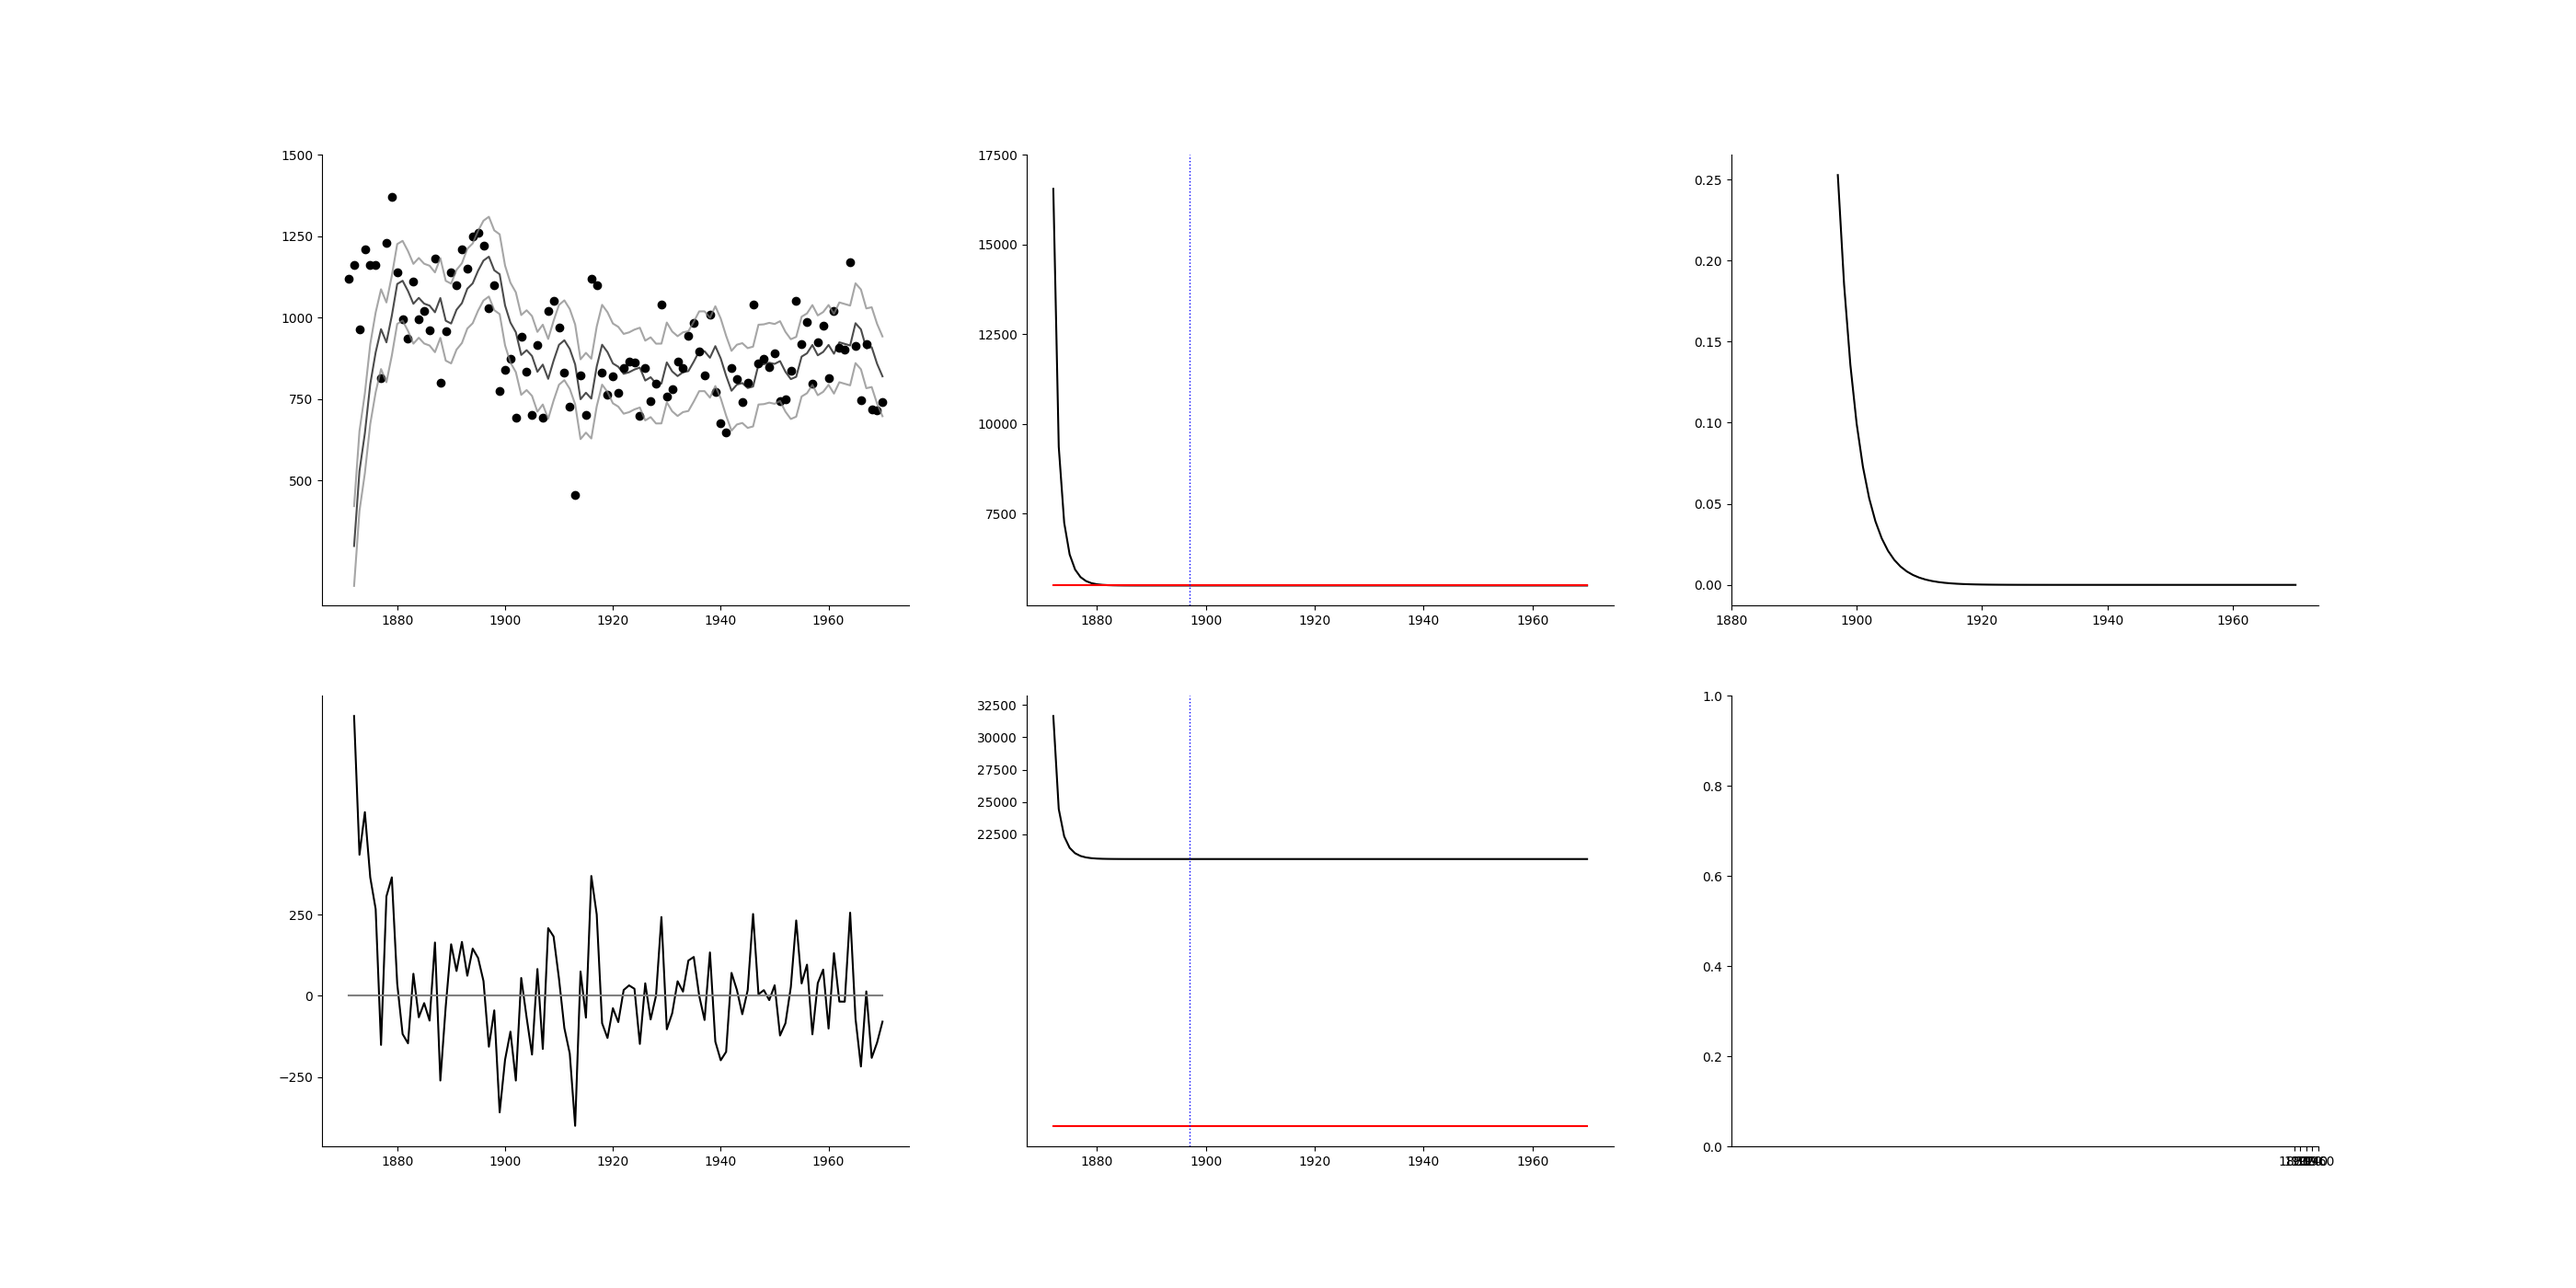
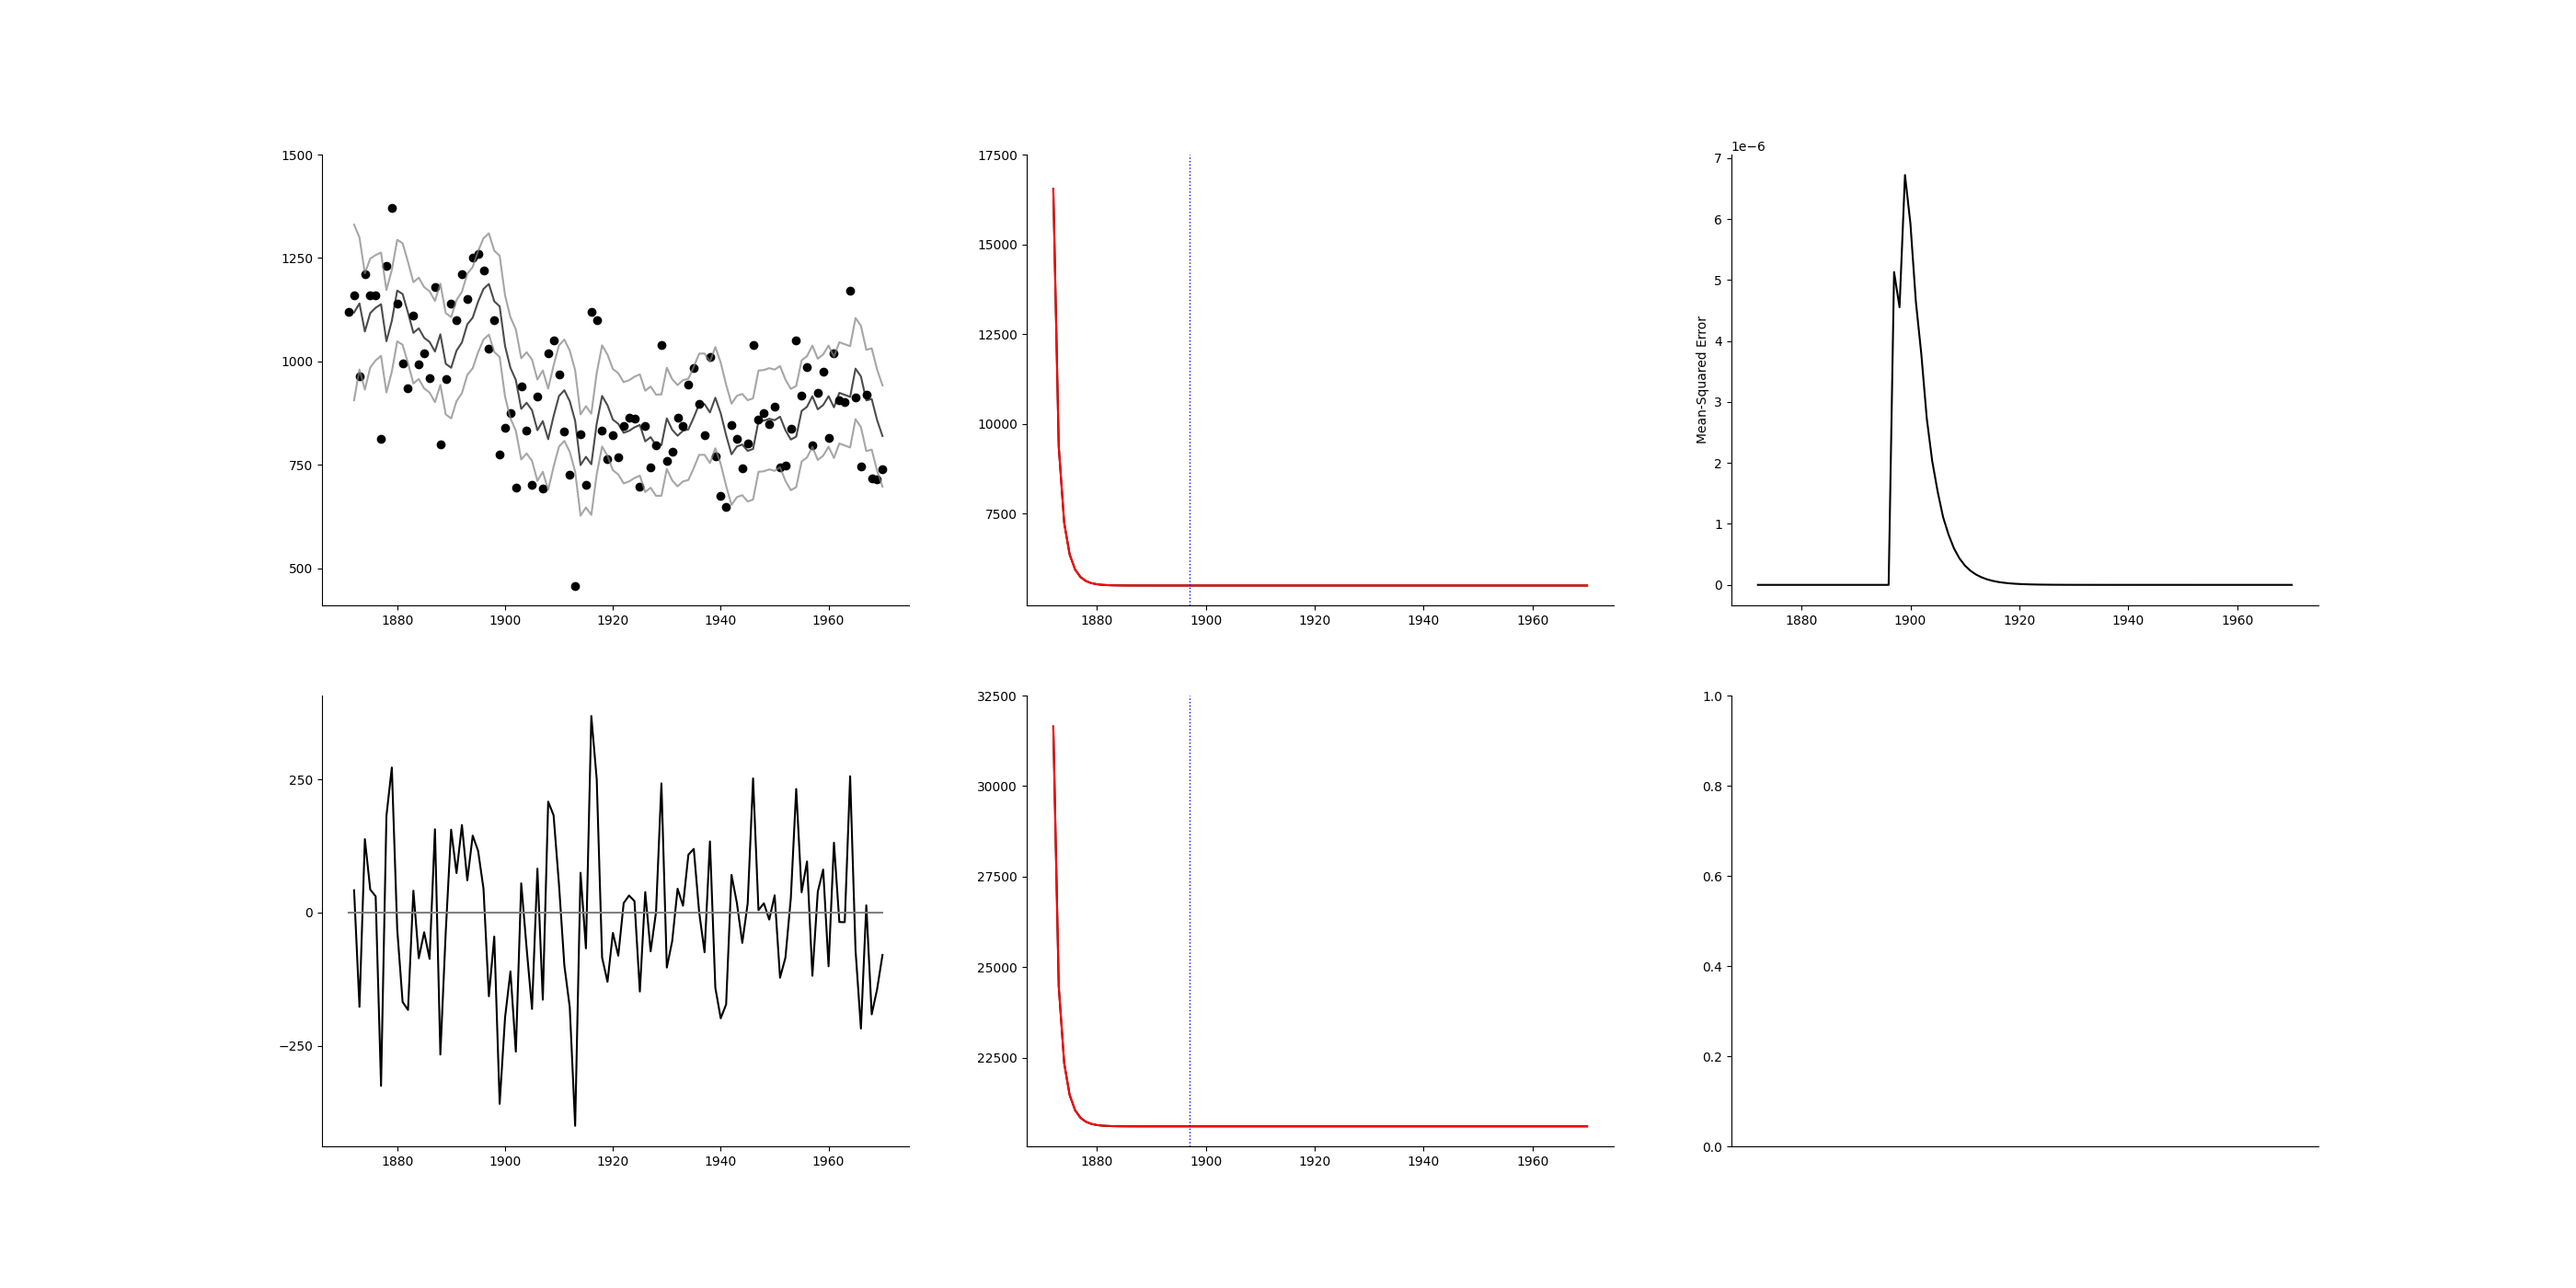
Update

diff --git a/BishopBooks/EM_Notes/EM.tex b/BishopBooks/EM_Notes/EM.tex
@@ -1,0 +1,131 @@
+\documentclass{article}
+\usepackage{graphicx} 
+\usepackage{amsmath}
+\usepackage{accents}
+
+\title{Bishop Book: Expectation Maximization}
+\author{Zimo Li}
+\date{15 November 2023}
+
+\begin{document}
+\maketitle
+
+\section{Background}
+\subsection{Gaussian Mixture Model}
+\par\noindent
+The Gaussian mixture distribution can be written as a linear superposition
+of Gaussians in the form
+\[
+p(\mathbf{x}) = \sum_{k=1}^{K}\pi_k\mathcal{N}(\mathbf{x}|\mu_k,\Sigma_k)
+\]
+
+\par\noindent
+We introduce a binary random variable \(\mathbf{z}\) to attribute 
+each observation into a Gaussian model \(\mathcal{N}(\mu_k,\Sigma_k)\).
+\bigskip
+
+\par\noindent
+Hence, the values of \(\mathbf{z}\) should be 0s and a \(z_k=1\). 
+The index of \(k\) depends on values of \(\pi_k\):
+\[p(z_k=1)=\pi_k\]
+where
+\[0 \leq \pi_k \leq 1 \]
+\[\sum_{k=1}^{K}\pi_k=1 \]
+\bigskip
+
+\par\noindent
+The conditional distribution of x given a particular value for \(\mathbf{z}\)
+can be written in the form
+\[
+    p(\mathbf{x}|\mathbf{z})
+    =\prod_{k=1}^{K}
+    \mathcal{N}(\mathbf{x}|\mu_k, \Sigma_k)^{z_k}
+\]
+Therefore, the observation \(\mathbf{x}\) is linked
+to its latent state.
+\bigskip
+
+\par\noindent
+The marginal distirbution of \(\mathbf{x}\) is
+\begin{align*}
+    p(\mathbf{x}) &=
+    \sum_{\mathbf{z}}^{}p(\mathbf{z})p(\mathbf{x}|\mathbf{z})\\
+    &= \sum_{\mathbf{z}}^{}\prod_{k=1}^{K}(\pi_k\mathcal{N}(\mathbf{x}|\mu_k, \Sigma_k))^{z_k}\\
+    &=\sum_{k=1}^{K}\pi_k\mathcal{N}(\mathbf{x}|\mu_k, \Sigma_k)\\
+\end{align*}
+which applies for every observed data point \(\mathbf{x}_1, \mathbf{x}_2, \cdots, \mathbf{x}_n\).
+\bigskip
+
+\par\noindent
+For each \(\mathbf{z}_k\), we can use a function \(\gamma(z_k)\) to 
+denote whether \(z_k=1\) under the observation of \(\mathbf{x}\)
+\begin{align*}
+    \gamma(z_k) = p(z_k=1|\mathbf{x})
+    &= \frac{p(z_k=1)p(\mathbf{x}|z_k=1)}{p(\mathbf{x})}\\
+    &= \frac{p(z_k=1)p(\mathbf{x}|z_k=1)}{\sum_{\mathbf{z}}^{}p(\mathbf{z})p(\mathbf{x}|\mathbf{z})}\\
+    &= \frac{p(z_k=1)p(\mathbf{x}|z_k=1)}{\sum_{j=1}^{K}p(z_j=1)p(\mathbf{x}|z_j=1)}\\
+    &= \frac{\pi_k\mathcal{N}(\mathbf{x}|\mu_k, \Sigma_k)}{\sum_{j=1}^{K}\pi_j\mathcal{N}(\mathbf{x}|\mu_j, \Sigma_j)}\\
+\end{align*}
+so that \(\pi_k\) is the prior probability of \(z_k=1\) and \(\gamma(z_k)\)
+is the posterior probability once the \(\mathbf{x}\) is observed.
+\bigskip
+
+\par\noindent
+For a set of observations \(\mathbf{X}\) where \(\mathbf{x}_1, \mathbf{x}_2, \cdots, \mathbf{x}_n\)
+are all independent from each other, the log likelihood of observing
+\(\mathbf{X}\) is
+\[
+\ln{p(\mathbf{X}|\mathbf{\pi},\mathbf{\mu},\mathbf{\Sigma})}
+=\sum_{n=1}^{N}\ln{\{\sum_{k=1}^{K}\pi_k\mathcal{N}(\mathbf{x_n}|\mu_k, \Sigma_k)\}}
+\]
+
+\subsection{Likelihood}
+\subsubsection{\(\mu_k\)}
+\par\noindent
+First, calculate the derivative of the log likelihood with respect to one of the means \(\mu_k\)
+\begin{align*}
+    \frac{d\ln{p(\mathbf{X}|\mathbf{\pi},\mathbf{\mu},\mathbf{\Sigma})}}{d\mu_k}
+    &= \sum_{n=1}^{N} \frac{d\ln{\{\sum_{k=1}^{K}\pi_k\mathcal{N}(\mathbf{x_n}|\mu_k, \Sigma_k)\}}}{d\mu_k}\\
+    &= \sum_{n=1}^{N} \frac{1}{\ln{\{\sum_{k=1}^{K}\pi_k\mathcal{N}(\mathbf{x_n}|\mu_k, \Sigma_k)\}}}\pi_k\frac{d\mathcal{N}(\mathbf{x}|\mu_k, \Sigma_k)}{d\mu_k}\\
+    &= \sum_{n=1}^{N} \frac{1}{\ln{\{\sum_{k=1}^{K}\pi_k\mathcal{N}(\mathbf{x_n}|\mu_k, \Sigma_k)\}}}\pi_k\{\mathcal{N}(\mathbf{x}|\mu_k, \Sigma_k)\Sigma_k^{-1}(\mathbf{x}_n-\mu_k)\}\\
+    &= \sum_{n=1}^{N} \frac{\pi_k\mathcal{N}(\mathbf{x}|\mu_k, \Sigma_k)}{\sum_{j=1}^{K}\pi_j\mathcal{N}(\mathbf{x}|\mu_j, \Sigma_j)}\Sigma_k^{-1}(\mathbf{x}_n-\mu_k)\\
+    &= \sum_{n=1}^{N} \gamma(z_{nk})\Sigma_k^{-1}(\mathbf{x}_n-\mu_k)
+\end{align*}
+\bigskip
+
+\par\noindent
+To maximize the log likelihood with respect to \(\mu_k\), we shall set this derivative to 0:
+\begin{align*}
+    \sum_{n=1}^{N} \gamma(z_{nk})\Sigma_k^{-1}(\mathbf{x}_n-\mu_k) &= 0
+\end{align*}
+Multiplying by \(\mathbf{\Sigma_k}^{-1}\) which is assumed to be nonsingular:
+\begin{align*}
+    \sum_{n=1}^{N} \gamma(z_{nk})\mathbf{x}_n &= \sum_{n=1}^{N} \gamma(z_{nk})\mu_k\\
+    \mu_k &= \frac{1}{\sum_{n=1}^{N} \gamma(z_{nk})}\sum_{n=1}^{N} \gamma(z_{nk})\mathbf{x}_n\\
+    &= \frac{1}{N_k}\sum_{n=1}^{N} \gamma(z_{nk})\mathbf{x}_n
+\end{align*}
+\bigskip
+
+\subsubsection{\(\Sigma_k\)}
+\par\noindent
+Calculate the derivative of the log likelihood with respect to one of the means \(\Sigma_k\)
+\begin{align*}
+    \frac{d\ln{p(\mathbf{X}|\mathbf{\pi},\mathbf{\mu},\mathbf{\Sigma})}}{d\Sigma_k}
+    &= \sum_{n=1}^{N} \frac{d\ln{\{\sum_{k=1}^{K}\pi_k\mathcal{N}(\mathbf{x_n}|\mu_k, \Sigma_k)\}}}{d\Sigma_k}\\
+    &= \sum_{n=1}^{N} \frac{1}{\ln{\{\sum_{k=1}^{K}\pi_k\mathcal{N}(\mathbf{x_n}|\mu_k, \Sigma_k)\}}}\pi_k\frac{d\mathcal{N}(\mathbf{x}|\mu_k, \Sigma_k)}{d\Sigma_k}
+\end{align*}
+\bigskip
+
+
+\subsubsection{\(\pi_k\)}
+
+
+\section{EM Process}
+\subsection{E}
+
+
+
+\subsection{M}
+
+
+\end{document}

diff --git a/D&K Books/lds.py b/D&K Books/lds.py
@@ -22,16 +22,15 @@ def ApplyFilter(a1, p1, e, n, y, steady_state = False):
     timepoints = len(y)
     a, p, F = np.zeros(timepoints+1, dtype = np.double), np.zeros(timepoints+1, dtype = np.double), np.zeros(timepoints, dtype = np.double)
     A, P = np.zeros(timepoints, dtype = np.double), np.zeros(timepoints, dtype = np.double)
-    if steady_state:  p_ = SteadyStateVariance(e,n)
+    p_ = SteadyStateVariance(e,n)
+    if p_ == 'no steady state': return 'No Steady State'
     
     a[0], p[0] = a1, p1
     for i in range(0, timepoints):
-        if not steady_state:
-            F[i] = p[i] + e
-            K = p[i]/F[i]
-        else:
-            K = p_/(p_+ e)
-
+        F[i] = p[i] + e
+        K = p[i]/F[i]
+        if steady_state:
+            if abs(p[i]-p_)<=0.001: K = p_/(p_+ e)
         if np.isnan(y[i]): 
             A[i] = a[i]
             P[i] = p[i]
@@ -128,28 +127,26 @@ def DiagnosticCheck(a1, p1, e, n, y, k=10):
     v = [y[i] - a[i] for i in range(len(y))]
 
     E = np.array([v[i]/np.sqrt(F[i]) for i in range(1,len(y))])
-    m,H,c,Q = np.zeros(4), np.zeros(N), np.zeros(k), np.zeros(k)
+    m,H,c,Q = np.zeros(4), np.zeros(N), np.zeros(k+1), np.zeros(k+1)
 
     m[0] = np.mean(E) #mean
     m[1] = np.mean([(E[j]-m[0])**2 for j in range(N)]) #variance
     m[2] = np.mean([(E[j]-m[0])**3 for j in range(N)])
     m[3] = np.mean([(E[j]-m[0])**4 for j in range(N)])
-    S, K = m[2]/((np.sqrt(m[1]))**3), m[3]/((m[1])**2) #Skewness and Kurtosis
-    NN = (N+1)*(S**2/6 + (K-3)**2/24)
+    S, K = m[2]/(np.sqrt(m[1]**3)), m[3]/(m[1]**2) #Skewness and Kurtosis
+    NN = N*(S**2/6 + (K-3)**2/24)
 
     H[0] = E[-1]**2 / (E[0] **2)
     for i in range(1,N):
         H[i] = (np.sum([E[j]**2 for j in range(N-i, N)]))/(np.sum([E[j]**2 for j in range(i)]))
 
-    for i in range(k):
-        c[i] = np.sum([(E[j] - m[0])*(E[j-i]-m[0]) for j in range (i+1, N)])/((N+1)*m[1])
-        Q[i] = (N+1)*(N+3)*np.sum([c[j]**2/(N-j) for j in range(i)])
+    for i in range(k+1):
+        c[i] = np.sum([(E[j] - m[0])*(E[j-i]-m[0]) for j in range (i+1, N)])/(N*m[1])
+        Q[i] = N*(N+2)*np.sum([c[j]**2/(N-j-1) for j in range(i)])
 
     p_S, p_K = ss.norm.sf(S, loc=0, scale=6/(N+2)),ss.norm.sf(K, loc = 3, scale = 24/(N+2))
-    return E, (S,p_S), (K, p_K), NN, H, c, Q
+    return E, (S,p_S), (K, p_K), NN, H, c[1:], Q[1:]
 
-def ZScore(x):
-    m = np.mean(x)
-    std = np.sqrt(np.sum([(x[i] - m)**2 for i in range(len(x))])/(len(x)-1))
-    z = [(x[i]-m)/std for i in range(len(x))]
-    return z
+def TheoreticalQuantile(x):
+    (res_o_values, (slope, intercept, r)) = ss.probplot(x, dist="norm")
+    return res_o_values

diff --git a/D&K Books/Figure_2.1.py b/D&K Books/Figure_2.1.py
@@ -15,12 +15,10 @@ def main():
     n = 1469.1
     timepoints = len(years)
 
-    # Filter data
+    # Filter data: not using steady state
     a, p, F, A, P = lds.ApplyFilter(a1, p1, e, n, y)
     v = [y[i] - a[i] for i in range(len(y))]
 
-    # Plot filtered data
-    # Note: here data is displayed from t = 2 to t = n
     years_xlabel = [1880, 1900, 1920, 1940, 1960]
     upper_bound = [a[i] + 1.65*(p[i]**0.5) for i in range(len(y))]
     lower_bound = [a[i] - 1.65*(p[i]**0.5) for i in range(len(y))]
@@ -52,13 +50,11 @@ def main():
     fig.suptitle("Nile data and output of Kalman filter", y = 0.0, fontsize = 25)
     plt.savefig('Fig_2.1.png')
 
-    # Filter data
+    # Filter data: using steady_state when its difference with Kalman filter variance <= 1e-3 
     a_, p_, F_, A_, P_ = lds.ApplyFilter(a1, p1, e, n, y, steady_state=True)
+    p_steadystate = lds.SteadyStateVariance(e,n)
     v_ = [y[i] - a_[i] for i in range(len(y))]
 
-    # Plot filtered data
-    # Note: here data is displayed from t = 2 to t = n
-    years_xlabel = [1880, 1900, 1920, 1940, 1960]
     upper_bound = [a_[i] + 1.65*(p_[i]**0.5) for i in range(len(y))]
     lower_bound = [a_[i] - 1.65*(p_[i]**0.5) for i in range(len(y))]
     
@@ -74,13 +70,14 @@ def main():
     axs[0,1].set_yticks([7500,10000, 12500, 15000, 17500])
 
     for i in range(1,len(p)):
-        if abs(p[i] - p_[i]) <= 1e-3:
+        if abs(p[i] - p_steadystate) <= 0.001:
             n = i
             break
     axs[0,1].axvline(years[n], color = 'blue',linewidth = 1, linestyle = ':')
 
     dA = [np.sqrt((A[i] - A_[i])**2) for i in range(len(A))]
-    axs[0,2].plot(years[i:], dA[i:], color = 'black')
+    axs[0,2].plot(years[1:], dA[1:], color = 'black')
+    axs[0,2].set_ylabel("Mean-Squared Error")
 
 
     zeroline = np.zeros(timepoints)
@@ -98,8 +95,9 @@ def main():
             axs[i,j].spines['right'].set_visible(False)
             axs[i,j].spines['top'].set_visible(False)
             axs[i,j].set_xticks(years_xlabel)
+    axs[1,2].set_xticks([])
     
-    fig.suptitle("Nile data and output of Kalman filter", y = 0.0, fontsize = 25)
+    fig.suptitle("Nile data and output of Mixed Steady-State Kalman filter", y = 0.0, fontsize = 25)
     plt.savefig('Fig_2.1_SteadyState.png')
     
 if __name__ == "__main__":

diff --git a/D&K Books/Figure_2.7.py b/D&K Books/Figure_2.7.py
@@ -35,10 +35,10 @@ def main():
     axs[0,1].set_xticks([-3,-2,-1,0,1,2,3])
     axs[0,1].set_title('Histogram Plus Estimated Density')
     
-    z = lds.ZScore(v[1:])
-    axs[1,0].plot(E, z, color = 'darkgrey')
-    axs[1,0].plot(E, E, color = 'black', label = 'normal')
-    axs[1,0].plot(E, np.zeros(len(E)), color = 'grey', linestyle = ':')
+    (QQ_x, QQ_y) = lds.TheoreticalQuantile(E)
+    axs[1,0].plot(QQ_x, QQ_y, color = 'darkgrey')
+    axs[1,0].plot(QQ_x, QQ_x, color = 'black', label = 'normal')
+    axs[1,0].plot(QQ_x, np.zeros(len(E)), color = 'grey', linestyle = ':')
     axs[1,0].set_yticks([-2,0,2])
     axs[1,0].set_xticks([-2,-1,0,1,2])
     axs[1,0].set_title('Ordered Residuals')

diff --git a/BishopBooks/KMeansCluster.py b/BishopBooks/KMeansCluster.py
@@ -5,7 +5,7 @@ import EM
 def main():
   data = np.random.uniform(-1, 1, (100, 2))
 
-  kmeans = Cluster(data, colors = ['red', 'blue', 'green', 'pink', 'yellow'], k=5)
+  kmeans = EM.Cluster(data, colors = ['red', 'blue', 'green', 'pink', 'yellow'], k=5)
   kmeans.Run()
 
 
